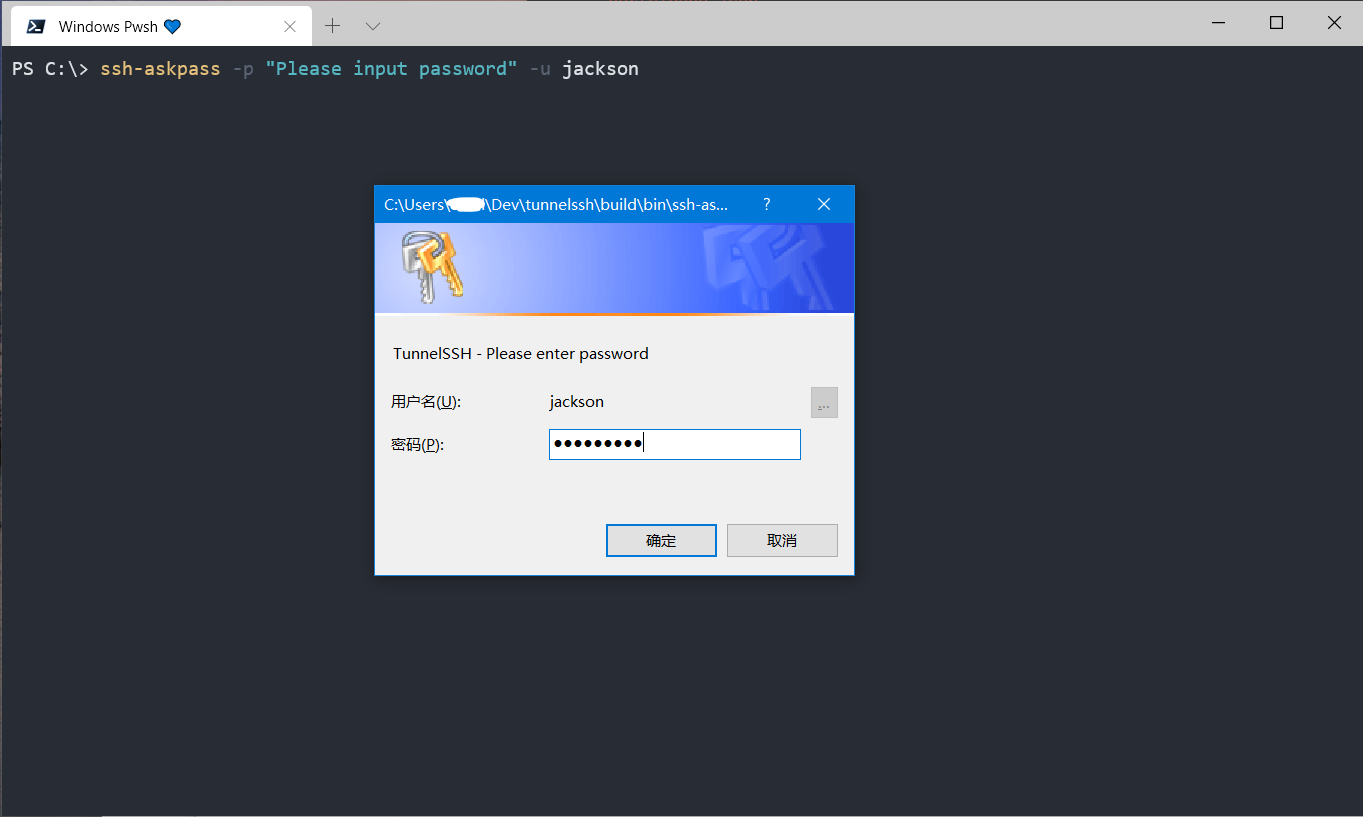
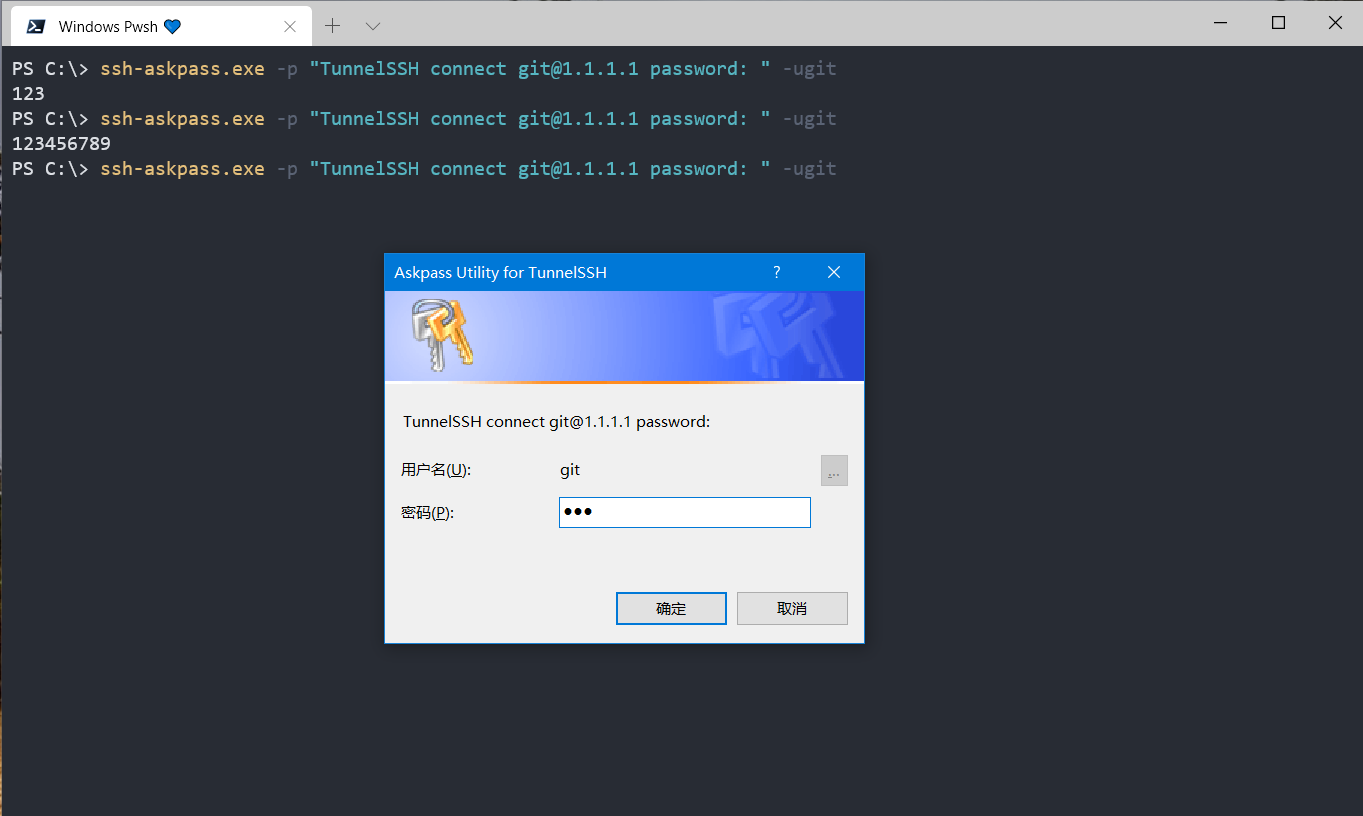
Update askpass caption

diff --git a/cmd/ssh-askpass/windows.go b/cmd/ssh-askpass/windows.go
@@ -123,7 +123,7 @@ type creduiinfow struct {
 func CredUIPromptForWindowsCredentials(prompt, user string) (string, error) {
 	var ci creduiinfow
 	ci.cbSize = uint32(unsafe.Sizeof(ci))
-	ci.pszCaptionText = syscall.StringToUTF16Ptr("TunnelSSH - SSH AskPass Utility")
+	ci.pszCaptionText = syscall.StringToUTF16Ptr("Askpass Utility for TunnelSSH")
 	ci.pszMessageText = syscall.StringToUTF16Ptr(prompt)
 	ci.hwnd = GetActiveWindow()
 	ci.hbmBanner = windows.Handle(0)
@@ -175,7 +175,7 @@ func CredUIPromptForWindowsCredentials(prompt, user string) (string, error) {
 func CredUIPromptForCredentials(prompt, user string) (string, error) {
 	var ci creduiinfow
 	ci.cbSize = uint32(unsafe.Sizeof(ci))
-	ci.pszCaptionText = syscall.StringToUTF16Ptr("TunnelSSH - SSH AskPass Utility")
+	ci.pszCaptionText = syscall.StringToUTF16Ptr("Askpass Utility for TunnelSSH")
 	ci.pszMessageText = syscall.StringToUTF16Ptr(prompt)
 	ci.hwnd = GetActiveWindow()
 	ci.hbmBanner = windows.Handle(0)

diff --git a/docs/ssh-askpass.md b/docs/ssh-askpass.md
@@ -1,0 +1,3 @@
+# Tunnel SSH AskPass
+
+WIP
